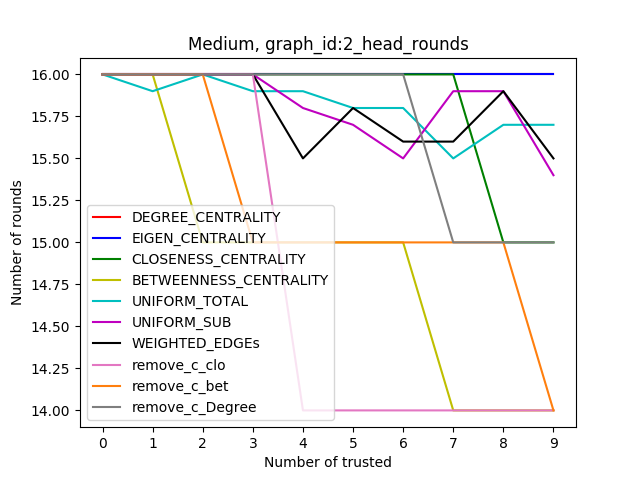
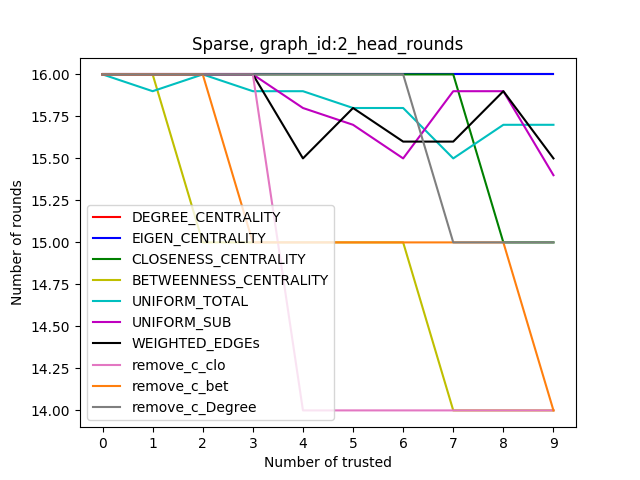
change figure name

Changed region(s): [[0.2812, 0.0625, 0.75, 0.125]]

diff --git a/Graph.py b/Graph.py
@@ -221,7 +221,7 @@ def bar_graph(graph_id, result_dict):
         plt.yticks(np.arange(bottom , top, step = 1))
         plt.ylim(bottom,top)
         plt.bar(x_axis, y_local_list)
-        plt.title(f"Sparse: Number of trusted {num_trusted} in graph_id {graph_id}")
+        plt.title(f"Medium: Number of trusted {num_trusted} in graph_id {graph_id}")
         # plt.show()
         plt.savefig(f"{num_trusted}_Bar")
         plt.clf()
@@ -264,7 +264,7 @@ if __name__ == '__main__':
         for a, b in v.items():
             small_dict_in_result_dict[a] = b
 
-    graph_id = 9
+    graph_id = 18
     line_graph(result_dict, graph_id)
     line_graph_head(result_dict, graph_id, 10)
     # bar_graph(graph_id, result_dict)
